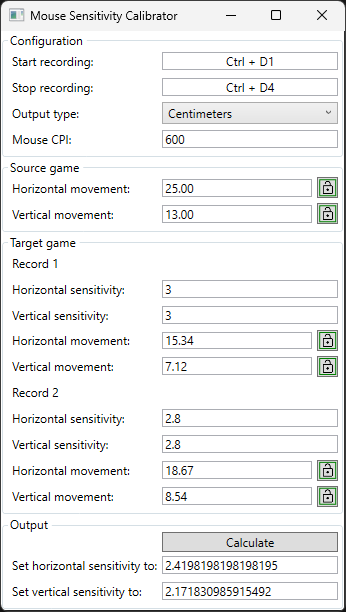
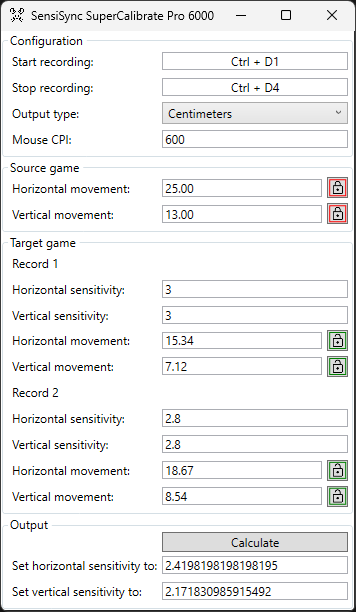
Rename app

diff --git a/MouseSensitivityCalibrator/MainWindow.xaml b/MouseSensitivityCalibrator/MainWindow.xaml
@@ -6,7 +6,7 @@
         xmlns:local="clr-namespace:MouseSensitivityCalibrator"
         xmlns:components="clr-namespace:MouseSensitivityCalibrator.Views.Components"
         mc:Ignorable="d"
-        Title="Mouse Sensitivity Calibrator"
+        Title="SensiSync SuperCalibrate Pro 6000"
         SizeToContent="WidthAndHeight" Topmost="True">
     <Grid Grid.IsSharedSizeScope="True">
         <Grid.Resources>

diff --git a/MouseSensitivityCalibrator/Views/Controls/TextLock.xaml b/MouseSensitivityCalibrator/Views/Controls/TextLock.xaml
@@ -12,7 +12,7 @@
             <ColumnDefinition Width="Auto"/>
         </Grid.ColumnDefinitions>
 
-        <TextBox x:Name="textBox" Grid.Column="0" Width="150"
+        <TextBox x:Name="textBox" Grid.Column="0" Width="160"
                  Text="{Binding Text, ElementName=Root, Mode=TwoWay}"/>
 
         <Button Grid.Column="1" Margin="5,0,0,0"
